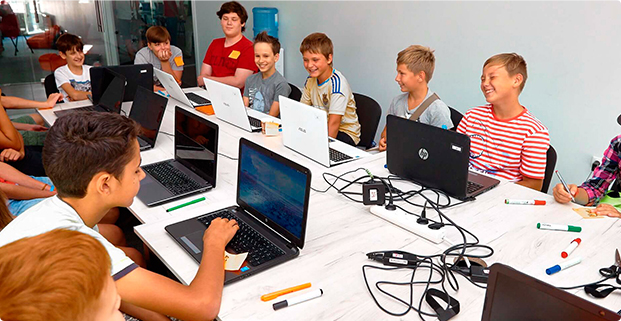
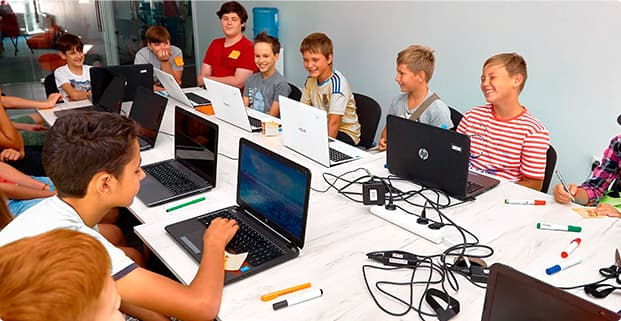
Replaced images with optimized ones, corrected the position of the "btn-up__link" button.

diff --git a/src/sass/hero.scss b/src/sass/hero.scss
@@ -2,7 +2,7 @@
   position: relative;
   height: 560px;
   background-color: #824fe3;
-  background: center / cover no-repeat url(../images/header/banner_mobile.jpg);
+  background: center / cover no-repeat url(../images/hero/banner_mobile.jpg);
   overflow: hidden;
 }
 
@@ -30,9 +30,11 @@
   padding-right: 14px;
   padding-bottom: 1px;
   padding-left: 14px;
-  background-image: linear-gradient(to bottom right,
-      rgba(0, 0, 0, 0.6),
-      rgba(0, 0, 0, 0.6));
+  background-image: linear-gradient(
+    to bottom right,
+    rgba(0, 0, 0, 0.6),
+    rgba(0, 0, 0, 0.6)
+  );
 }
 
 .hero-text__desc {
@@ -76,7 +78,7 @@
 @media screen and (min-width: 695px) and (max-width: 1199px) {
   .hero {
     height: 600px;
-    background: center / cover no-repeat url(../images/header/banner_tablet.jpg);
+    background: center / cover no-repeat url(../images/hero/banner_tablet.jpg);
   }
 
   .hero-text__wrapper {
@@ -104,7 +106,8 @@
       content: '';
       margin: 0;
       margin-right: 24px;
-      background: center / cover no-repeat url(../images/header/horizontal_line.svg);
+      background: center / cover no-repeat
+        url(../images/hero/horizontal_line.svg);
       width: 2px;
       height: 64px;
 
@@ -120,7 +123,7 @@
 @media screen and (min-width: 1200px) {
   .hero {
     height: 968px;
-    background: center / cover no-repeat url(../images/header/banner_desktop.jpg);
+    background: center / cover no-repeat url(../images/hero/banner_desktop.jpg);
   }
 
   .hero-text {
@@ -153,7 +156,8 @@
       content: '';
       margin: 0;
       margin-right: 24px;
-      background: center / cover no-repeat url(../images/header/horizontal_line.svg);
+      background: center / cover no-repeat
+        url(../images/hero/horizontal_line.svg);
       width: 2px;
       height: 64px;
       left: -15px;

diff --git a/src/html/hero.html b/src/html/hero.html
@@ -9,8 +9,6 @@
     </div>
   </div>
   <a class="hero__button" href="#down"
-    ><img
-      src="./images/header/arrows_to_bottom.png"
-      alt="Arrows to next section"
+    ><img src="./images/hero/arrows_to_bottom.png" alt="Arrows to next section"
   /></a>
 </section>

diff --git a/src/sass/footer.scss b/src/sass/footer.scss
@@ -217,7 +217,7 @@
       transform: scale(1.1);
     }
 
-    transform: translate3d(0, 0, 0) scale(1);
+    transform: translate3d(0, -80%, 0) scale(1);
     box-shadow: 0 3px 7px 0 rgba(5, 5, 5, 0.6);
 
     &::before {
